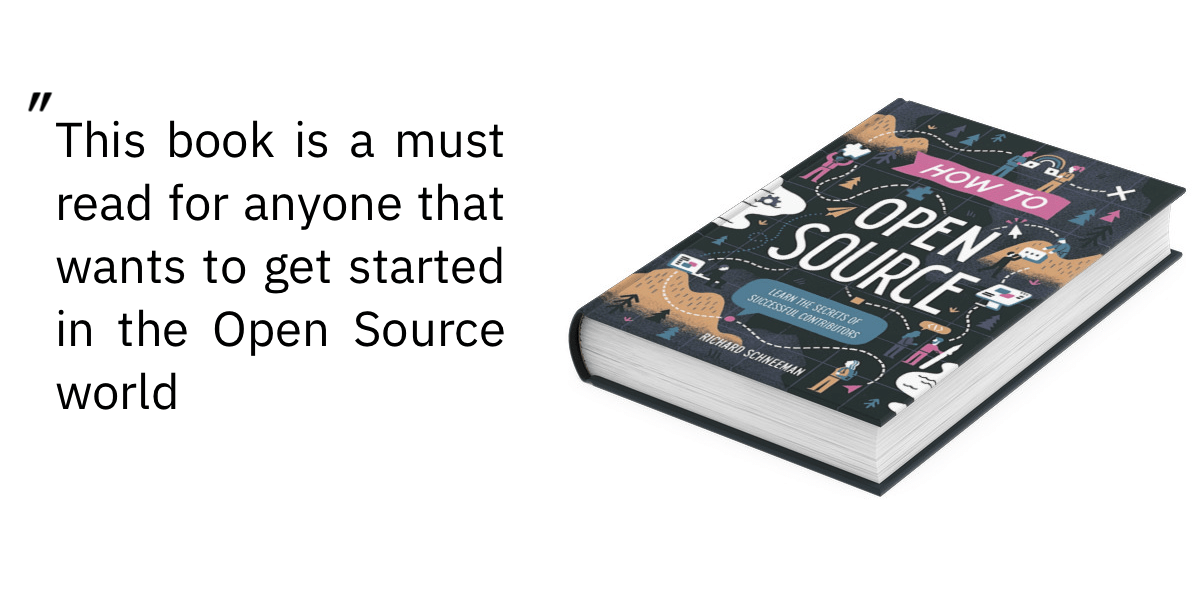
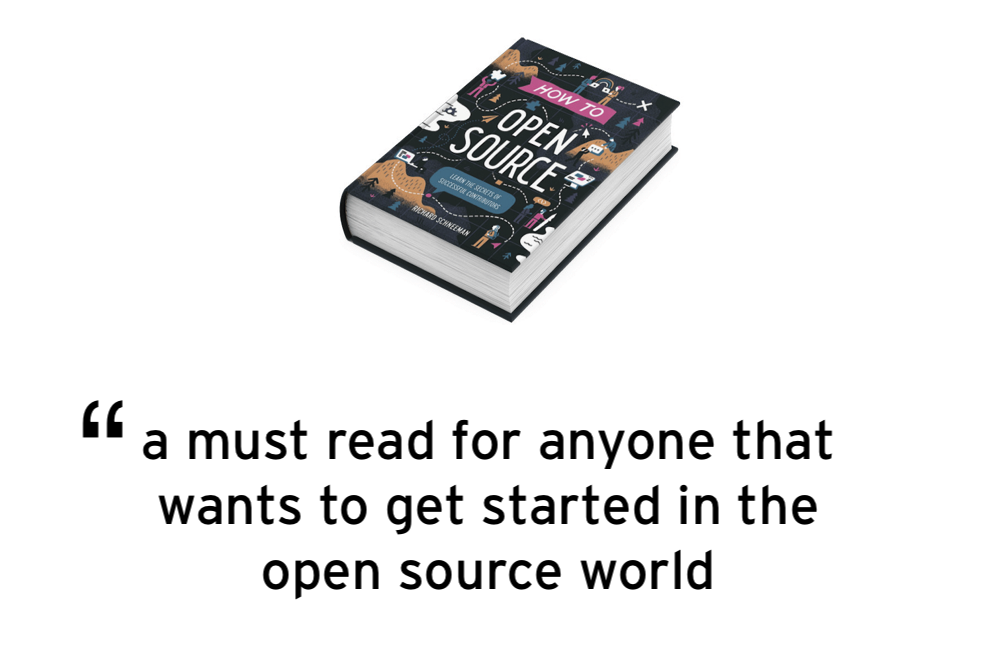
How to Open Source cards round 4

diff --git a/index.html b/index.html
@@ -42,10 +42,10 @@ License purchased from https://colorlib.com/wp/licence/
     <meta property="og:title" content="How to Open Source: Learn the Secrets of Successful Contributors" />
     <meta property="og:type" content="website" />
     <meta property="og:description" content="Discover the easiest path to open source contribution" />
-    <meta property="og:image" content="images/opengraph.png" />
+    <meta property="og:image" content="https://howtoopensource.dev/images/opengraph.png" />
     <meta property="og:image:type" content="image/png" />
-    <meta property="og:image:width" content="1200" />
-    <meta property="og:image:height" content="600" />
+    <meta property="og:image:width" content="1000" />
+    <meta property="og:image:height" content="650" />
     <meta property="og:url" content="https://howtoopensource.dev" />
     <meta property="twitter:card" content="summary_large_image" />
 </head>
@@ -144,7 +144,7 @@ License purchased from https://colorlib.com/wp/licence/
                     <img src="images/aaron.png" alt="Aaron" class="client-img" loading="lazy">
                     <blockquote class="blockquote">How To Open Source provides practical, real world examples of getting
                         started in Open Source. This book is a must read for anyone that wants to get started in the
-                        Open Source world.</blockquote>
+                        open source world.</blockquote>
                     <h5 class="mt-4 mb-2">Aaron Patterson</h5>
                     <p class="text-primary">Ruby core contributor</p>
                 </div>
